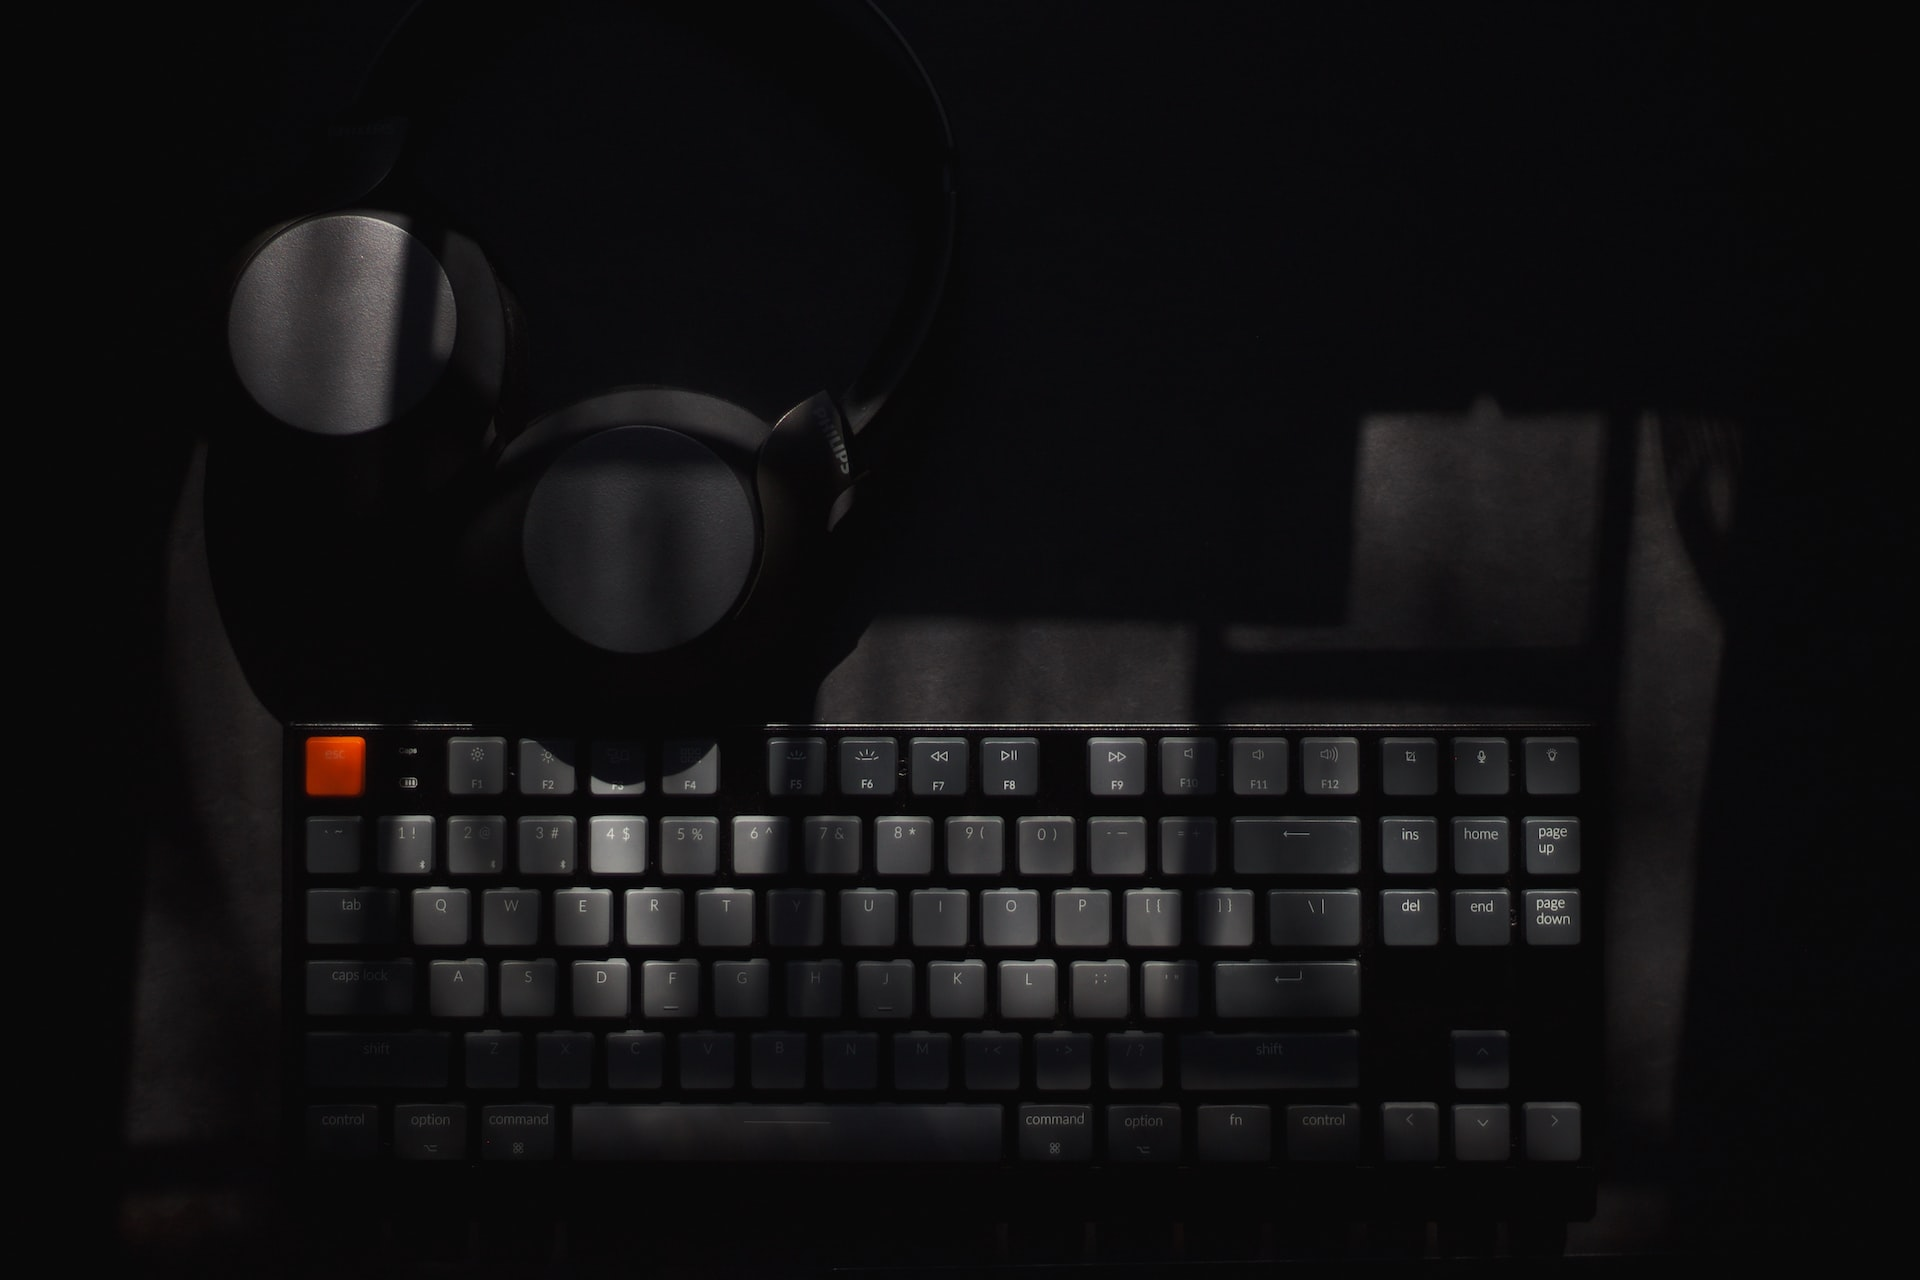
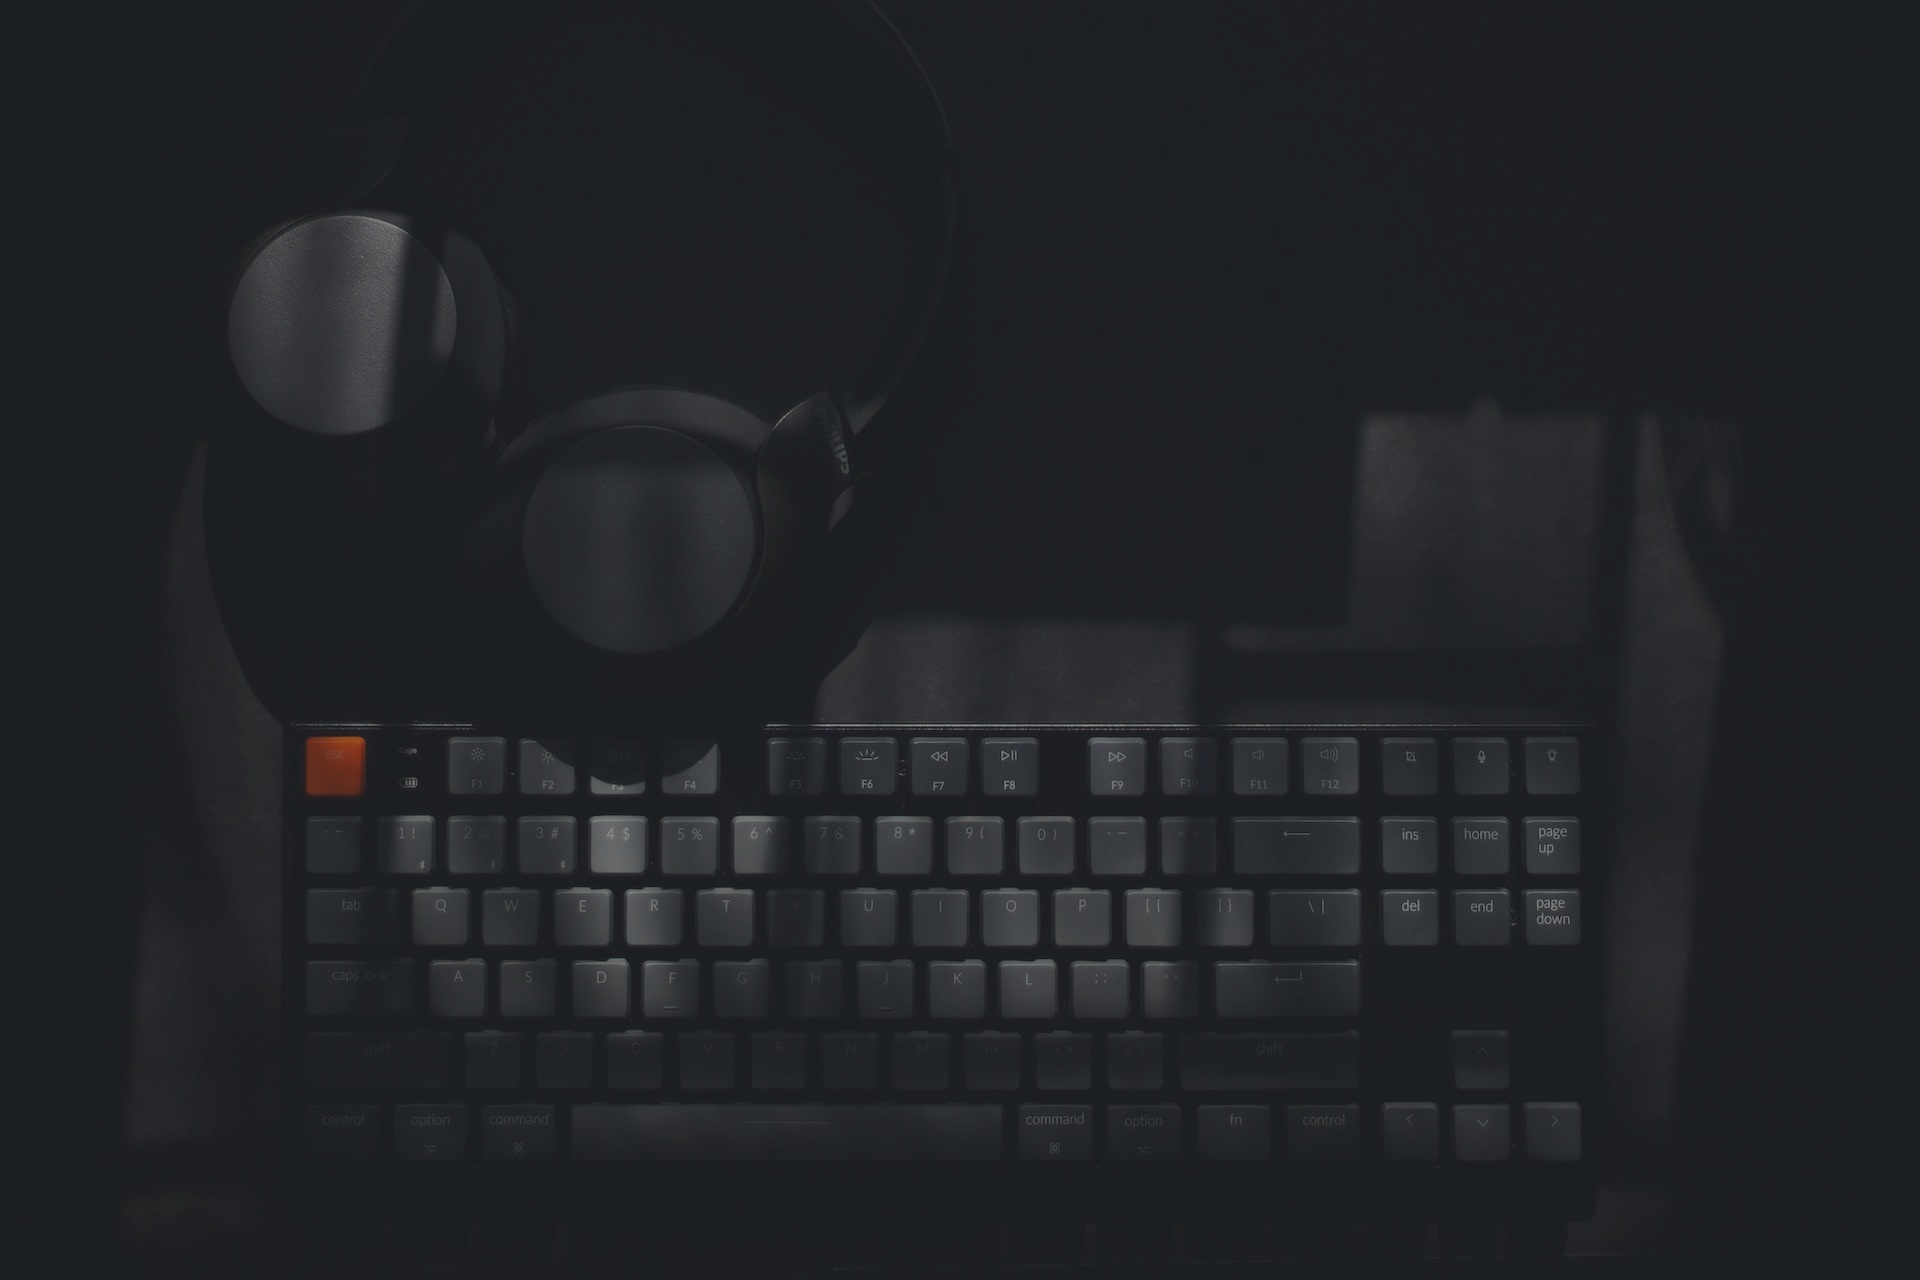
feat(contact): change image dim to real image file dim

diff --git a/src/components/sections/Contact/Contact.tsx b/src/components/sections/Contact/Contact.tsx
@@ -4,16 +4,8 @@ import Image from "next/image";
 
 // Functions
 const Contact = () => (
-  <section className="section-padding-y relative mb-24 bg-[#343A40]">
-    <div className="opacity-50">
-      <Image
-        src="/img/contact-bg.jpg"
-        alt="Contact background image programming"
-        className="object-cover"
-        fill
-      />
-    </div>
-    <div className="page-width relative z-10 flex flex-col gap-12">
+  <section className="section-padding-y relative mb-24 bg-[url(/img/contact-bg.jpg)] bg-cover bg-center">
+    <div className="page-width flex flex-col gap-12">
       <section className="flex flex-col items-center gap-4">
         <h2 className="font-bold text-[#FEFEFE]">Reach out to me</h2>
         <p className="text-xs font-light text-[#E5E5E5]">
